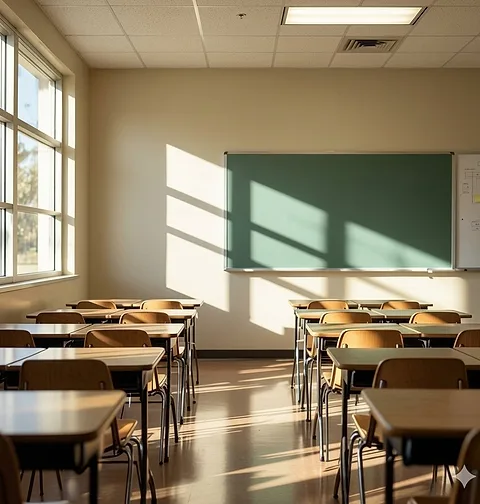
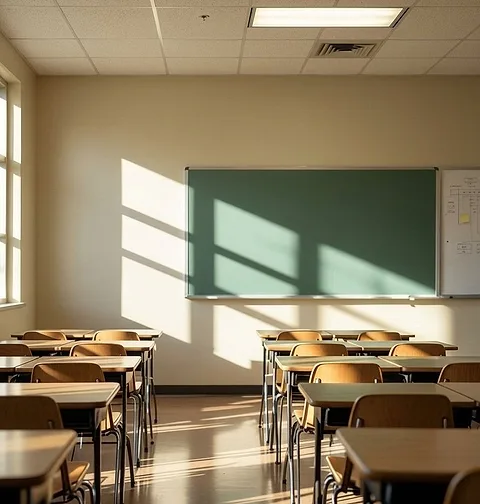
Retouch homepage facility photos: remove fake branding and watermarks
Paint out the on-wall signage in the office and strata photos, crop out
the industrial sign, medical caption bar and corner watermarks, and
re-export as 480w/800w WebP. Retouched full-size JPEGs kept in
assets/facility-types/retouched/.

diff --git a/site/index.html b/site/index.html
@@ -243,7 +243,7 @@
           <h4>Commercial offices</h4>
           <p>After-hours cleaning so your team walks into a finished building, not a work in progress.</p>
           <div class="image-slot light">
-            <img src="assets/img/facility-types/office-960.webp" srcset="assets/img/facility-types/office-480.webp 480w, assets/img/facility-types/office-960.webp 960w" sizes="(min-width:1140px) 220px, (min-width:641px) 45vw, 92vw" width="960" height="1008" alt="Modern open-plan office with desks and a glass meeting room" loading="lazy" decoding="async">
+            <img src="assets/img/facility-types/office-800.webp" srcset="assets/img/facility-types/office-480.webp 480w, assets/img/facility-types/office-800.webp 800w" sizes="(min-width:1140px) 220px, (min-width:641px) 45vw, 92vw" width="800" height="840" alt="Modern open-plan office with desks and a glass meeting room" loading="lazy" decoding="async">
           </div>
         </div>
       </div>
@@ -253,7 +253,7 @@
           <h4>Strata &amp; body corporate</h4>
           <p>Common areas, lifts, carparks and bin rooms on a written scope your committee can read.</p>
           <div class="image-slot light">
-            <img src="assets/img/facility-types/strata-960.webp" srcset="assets/img/facility-types/strata-480.webp 480w, assets/img/facility-types/strata-960.webp 960w" sizes="(min-width:1140px) 220px, (min-width:641px) 45vw, 92vw" width="960" height="1008" alt="Apartment building lobby with lifts and polished floor" loading="lazy" decoding="async">
+            <img src="assets/img/facility-types/strata-800.webp" srcset="assets/img/facility-types/strata-480.webp 480w, assets/img/facility-types/strata-800.webp 800w" sizes="(min-width:1140px) 220px, (min-width:641px) 45vw, 92vw" width="800" height="840" alt="Apartment building lobby with lifts and polished floor" loading="lazy" decoding="async">
           </div>
         </div>
       </div>
@@ -263,7 +263,7 @@
           <h4>Education</h4>
           <p>Schools, childcare centres and universities &mdash; classrooms, canteens and term-break deep cleans.</p>
           <div class="image-slot light">
-            <img src="assets/img/facility-types/education-960.webp" srcset="assets/img/facility-types/education-480.webp 480w, assets/img/facility-types/education-960.webp 960w" sizes="(min-width:1140px) 220px, (min-width:641px) 45vw, 92vw" width="960" height="1008" alt="School classroom with desks and a green board" loading="lazy" decoding="async">
+            <img src="assets/img/facility-types/education-800.webp" srcset="assets/img/facility-types/education-480.webp 480w, assets/img/facility-types/education-800.webp 800w" sizes="(min-width:1140px) 220px, (min-width:641px) 45vw, 92vw" width="800" height="840" alt="School classroom with desks and a green board" loading="lazy" decoding="async">
           </div>
         </div>
       </div>
@@ -273,7 +273,7 @@
           <h4>Medical</h4>
           <p>Infection-control routines, colour-coded equipment and documented sign-off.</p>
           <div class="image-slot light">
-            <img src="assets/img/facility-types/medical-960.webp" srcset="assets/img/facility-types/medical-480.webp 480w, assets/img/facility-types/medical-960.webp 960w" sizes="(min-width:1140px) 220px, (min-width:641px) 45vw, 92vw" width="960" height="1008" alt="Clean medical facility corridor" loading="lazy" decoding="async">
+            <img src="assets/img/facility-types/medical-800.webp" srcset="assets/img/facility-types/medical-480.webp 480w, assets/img/facility-types/medical-800.webp 800w" sizes="(min-width:1140px) 220px, (min-width:641px) 45vw, 92vw" width="800" height="840" alt="Clean medical facility corridor" loading="lazy" decoding="async">
           </div>
         </div>
       </div>
@@ -283,7 +283,7 @@
           <h4>Industrial</h4>
           <p>Warehouse floors, amenities and construction sites, cleaned around production and site schedules.</p>
           <div class="image-slot light">
-            <img src="assets/img/facility-types/industrial-960.webp" srcset="assets/img/facility-types/industrial-480.webp 480w, assets/img/facility-types/industrial-960.webp 960w" sizes="(min-width:1140px) 220px, (min-width:641px) 45vw, 92vw" width="960" height="1008" alt="Worker vacuuming dust from a concrete floor on a building site" loading="lazy" decoding="async">
+            <img src="assets/img/facility-types/industrial-800.webp" srcset="assets/img/facility-types/industrial-480.webp 480w, assets/img/facility-types/industrial-800.webp 800w" sizes="(min-width:1140px) 220px, (min-width:641px) 45vw, 92vw" width="800" height="840" alt="Worker vacuuming dust from a concrete floor on a building site" loading="lazy" decoding="async">
           </div>
         </div>
       </div>
